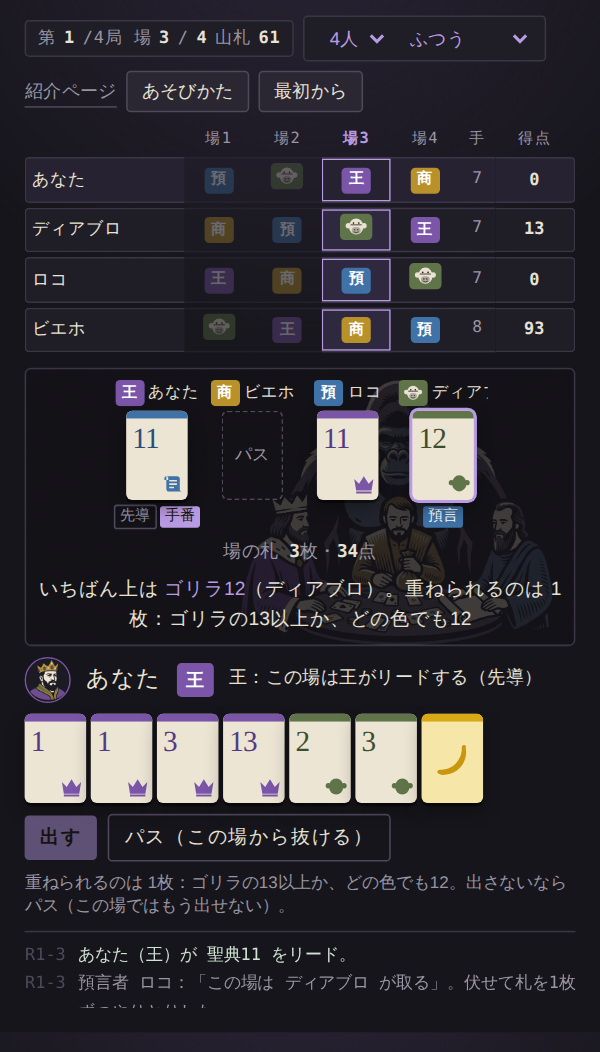
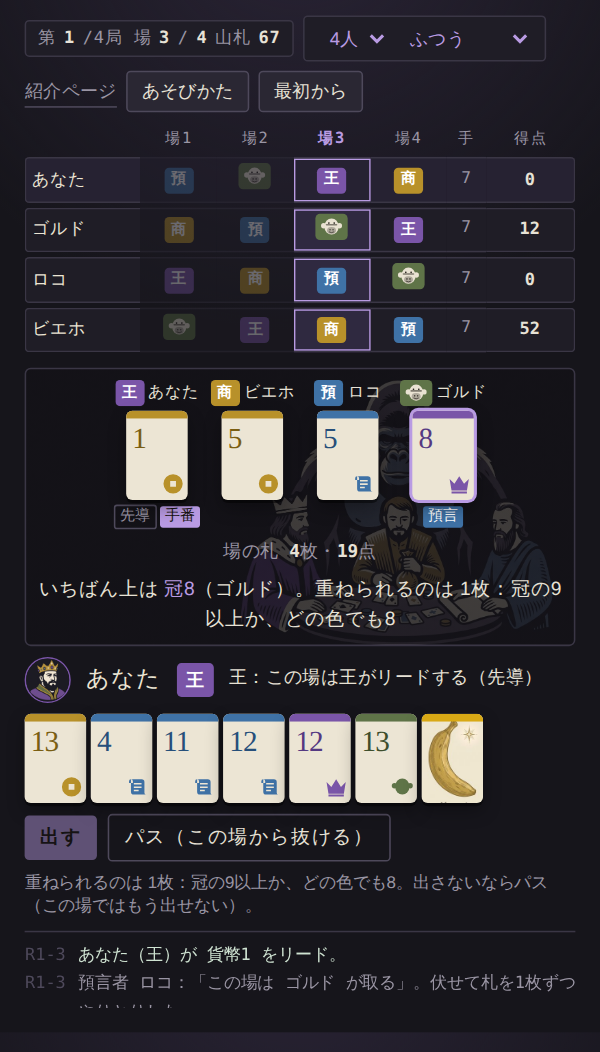
イラストを追加：画面の地のもよう、バナナとシルバーバックの札の絵、結果の画像
Claude-Session: https://claude.ai/code/session_01LM1BF6LuwjeTWqXiZY5rJo

diff --git a/app/index.html b/app/index.html
@@ -26,7 +26,7 @@
   }
   *{box-sizing:border-box}
   [hidden]{display:none!important}
-  body{margin:0; background:var(--bg); color:var(--fg); font-family:var(--body); font-size:15px; line-height:1.5;
+  body{margin:0; background:linear-gradient(rgba(22,21,27,.72),rgba(22,21,27,.72)), url(../assets/pattern.jpg) 0 0 / 420px auto repeat, var(--bg); color:var(--fg); font-family:var(--body); font-size:15px; line-height:1.5;
     -webkit-text-size-adjust:100%;
     background-image:radial-gradient(120% 70% at 50% -10%, #2a2436 0%, rgba(22,21,27,0) 60%)}
   .wrap{max-width:1000px; margin:0 auto; padding-inline:16px; padding-block:10px 16px;
@@ -119,9 +119,10 @@
   .stack .card.sm + .card.sm{margin-left:-16px}
   .stack .card.sm:nth-child(2){margin-top:8px} .stack .card.sm:nth-child(3){margin-top:16px}
   .bigbtn[disabled]{opacity:.45; cursor:default; filter:none}
-  .card.cb{background:#F6E7A8}
+  .card.cb{background:#EEE6CF url(../assets/card-banana.jpg) center 60% / cover no-repeat}
+  .card.cb .art, .card.csb .art, .card.cb .sn, .card.csb .sn{display:none}
   .card.cb .band{background:#D9A915} .card.cb .art{fill:#C9960E} .card.cb .sn{color:#7A5A06}
-  .card.csb{background:#34373C; color:#ECE5D4}
+  .card.csb{background:#EFE7D0 url(../assets/card-silverback.jpg) center 60% / cover no-repeat; color:#ECE5D4}
   .card.csb .band{background:linear-gradient(90deg,#9EA3AA,#E3E6EA,#9EA3AA)} .card.csb .art{fill:#D9DCE0} .card.csb .sn{color:#E3E6EA}
   .slot .passed{font-size:11px; color:var(--muted); border:1px dashed var(--line2); border-radius:4px; width:52px; height:74px; display:grid; place-items:center}
   .pileinfo{font-size:11.5px; color:var(--muted); text-align:center; font-family:var(--mono)}
@@ -625,7 +626,7 @@ function endGame(){
   var youWin = winners.some(function(x){ return x.p === 0; });
   var cls = youWin ? (winners.length > 1 ? "draw" : "win") : "lose";
   var word = youWin ? (winners.length > 1 ? "引き分け" : "あなたの勝ち") : nm(winners[0].p) + "の勝ち";
-  var html = '<img class="banner" src="../assets/hero.jpg" alt="">' + '<h2>' + (G.round >= ROUNDS ? '4局おわり' : '札が尽きて終わり') + '</h2><div class="result ' + cls + '">' + esc(word) + '</div>' +
+  var html = '<img class="banner" src="../assets/result.jpg" alt="">' + '<h2>' + (G.round >= ROUNDS ? '4局おわり' : '札が尽きて終わり') + '</h2><div class="result ' + cls + '">' + esc(word) + '</div>' +
     '<table><tr><th>順位</th><th>名前</th><th>取った札</th><th>合計</th></tr>';
   rows.forEach(function(x, i){
     html += '<tr><td>' + (i+1) + '</td><td>' + esc(nm(x.p)) + '</td><td class="n">' + G.piles[x.p].length + '枚</td><td class="n"><b>' + x.s + '</b></td></tr>';

diff --git a/SPEC.md b/SPEC.md
@@ -375,7 +375,7 @@ v0.13 までの仕様書の全文は、git の履歴に残っている。
 
   低い3枚組は取れても点が小さく、高い3枚組は黙って通りやすい。低い1枚は場が育つので意外と得
 - 預言で札を渡す・返すときは、札を選んだあと「〇〇を△△に渡す（返す）」ボタンで確かめてから渡す（うっかり必要な札を渡さないように）
-- イラスト（Gemini で生成）：`assets/hero.jpg`（場の背景を暗くして敷く・あそびかたと結果の上）、`assets/role-*.jpg`（自分の役割の肖像、紹介ページの役割）、`assets/og.jpg`（共有用 1200×630）
+- イラスト（Gemini で生成）：`assets/hero.jpg`（場の背景を暗くして敷く・あそびかたと結果の上）、`assets/role-*.jpg`（自分の役割の肖像、紹介ページの役割）、`assets/og.jpg`（共有用 1200×630）、`assets/result.jpg`（結果の上）、`assets/pattern.jpg`（画面の地のもよう）、`assets/card-banana.jpg`・`assets/card-silverback.jpg`（バナナとシルバーバックの札の絵）
 - むずかしさ：やさしい（重ねられる札に印を出す）／ふつう／むずかしい（場の点が小さいときは強い札を温存する）
 - **役割表**（プレイヤー × 4つの場）を常に出し、得点表を兼ねる。場には、各プレイヤーが最後に出した札（またはパス）と、場の札の枚数・点を出す
 - ノートPC（1000×760）とスマートフォン（390×780）で縦スクロールなし
